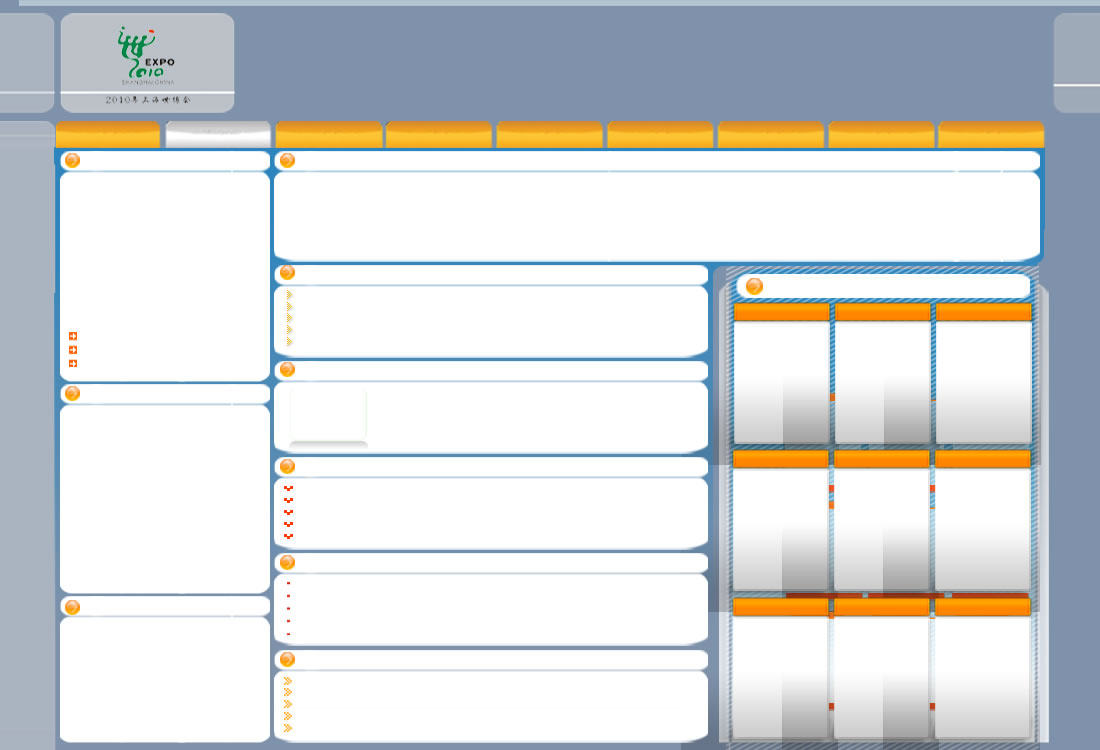
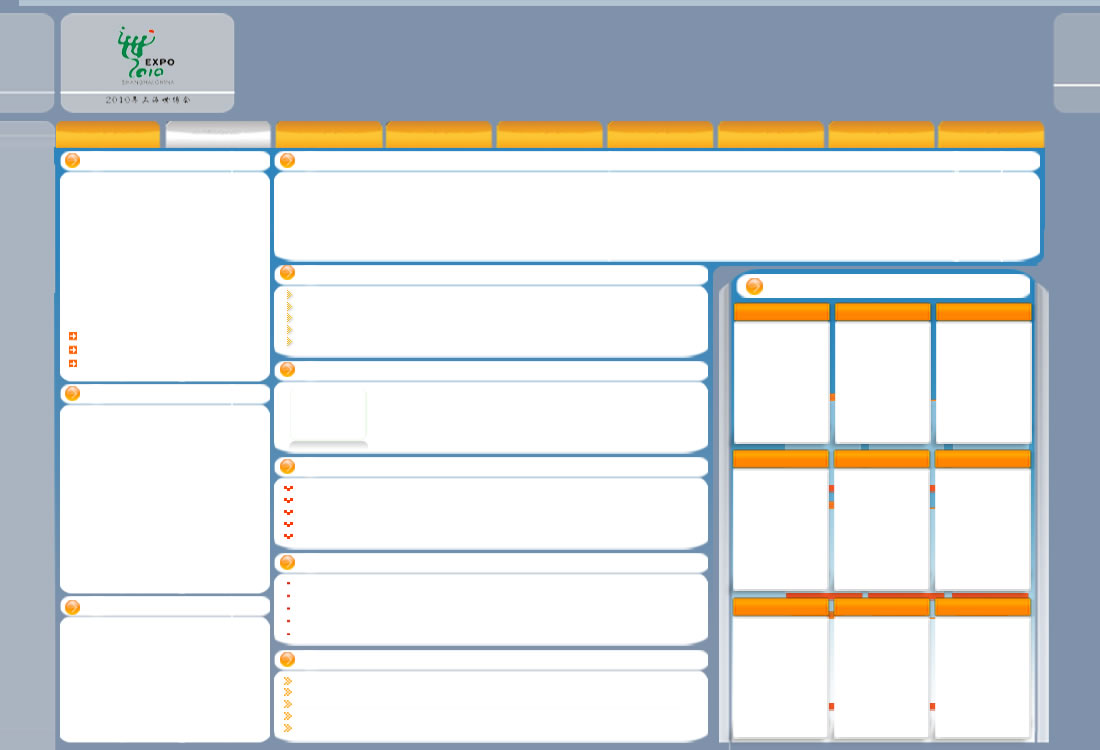
robbin

diff --git a/css/top.css b/css/top.css
@@ -9,7 +9,9 @@ li{margin:0px; list-style-type:none;}
 #nav1 #context a{color:#999999; text-decoration:none;}
 #nav1 #context span{color:#999999; cursor:pointer;}
 #nav1 #home{width:51px; height:11px; margin-top:3px; margin-right:5px; float:right; display:inline;}
-#nimg1{width:995px; height:116px; background:url('/images/shanghailoianghui.jpg') no-repeat; text-align:center; margin:0 auto;}
+/*#nimg1{width:995px; height:116px; background:url('/images/shanghailoianghui.jpg') no-repeat; text-align:center; margin:0 auto;}*/
+#nimg1{width:995px; height:100px; cursor:pointer; text-align:center; margin:0 auto;}
+#fd{width:995px; height:100px; top:25px; left:0px; cursor:pointer; z-index:99px; background:#7f7f7f; filter:alpha(opacity=0); -moz-opacity:0; opacity:0; position:absolute;}
 .deptlogo{width:100px; height:63px; margin-top:22px; cursor:pointer; float:left; display:inline;}
 .deptlogo a{width:100px; height:63px; text-decoration:none;}
 #nav2{margin-top:2px; width:100%; line-height:20px; height:110px; float:left; display:inline;}

diff --git a/css/jwzxsbh.css b/css/jwzxsbh.css
@@ -15,8 +15,7 @@ ul,li{margin:0px; padding:0px;list-style:none;}
 #ileft{width:210px; float:left; display:inline;}
 #l_top{width:210px; height:230px; margin-top:2px; margin-left:60px; float:left; display:inline;}
 #l_top #video{width:178px; height:136px; margin-top:10px; margin-left:16px; float:left; display:inline;}
-#l_top .video_list{width:178px; height:12px; margin-top:1px; margin-left:25px; overflow:hidden; float:left; display:inline;}
-#l_top .video_list a{color:#000000; text-decoration:none;}
+#l_top .video_list{width:178px; height:12px; margin-top:1px; margin-left:25px; color:#000000; overflow:hidden; float:left; display:inline;}
 #l_m{width:210px; height:210px; margin-top:2px; margin-left:60px; float:left; display:inline;}
 #l_m #content{width:176px; height:89px; margin-top:10px; margin-left:17px;  line-height:15px; float:left; display:inline;}
 #l_m #comment_name{width:176px; height:13px; margin-left:10px; line-height:13px; font-weight:bold; float:left; display:inline;}

diff --git a/subject/jwzxsbh/index.php b/subject/jwzxsbh/index.php
@@ -20,30 +20,30 @@
 	<?php $db=get_db(); ?>
 	<div id=ibody>
 		<div id=flash><embed src="4.swf" quality="high" width=801 height=100 type='application/x-shockwave-flash'></embed></div>
-		<div class=dh1 style="margin-left:55px;"><a href="/news/news_subject_list.php?id=139">重点关注</a></div>
-		<div class=dh2><a href="/news/news_subject_list.php?id=132">采风世博园</a></div>
-		<div class=dh1><a href="/news/news_subject_list.php?id=133">领导观察</a></div>
-		<div class=dh1><a href="/news/news_subject_list.php?id=134">世博之星</a></div>
-		<div class=dh1><a href="/news/news_subject_list.php?id=135">IBC要闻</a></div>
-		<div class=dh1><a href="/news/news_subject_list.php?id=136">运营动态</a></div>
-		<div class=dh1><a href="#">世博寄语</a></div>
-		<div class=dh1><a href="/news/news_subject_list.php?id=137">主题活动</a></div>
-		<div class=dh1><a href="/news/news_subject_list2.php">技术资讯站</a></div>
+		<div class=dh1 style="margin-left:55px;"><a target="_blank" href="/news/news_subject_list.php?id=139">重点关注</a></div>
+		<div class=dh2><a target="_blank" href="/news/news_subject_list.php?id=132">采风世博园</a></div>
+		<div class=dh1><a target="_blank" href="/news/news_subject_list.php?id=133">领导观察</a></div>
+		<div class=dh1><a target="_blank" href="/news/news_subject_list.php?id=134">世博之星</a></div>
+		<div class=dh1><a target="_blank" href="/news/news_subject_list.php?id=135">IBC要闻</a></div>
+		<div class=dh1><a target="_blank" href="/news/news_subject_list.php?id=136">运营动态</a></div>
+		<div class=dh1><a target="_blank" href="#">世博寄语</a></div>
+		<div class=dh1><a target="_blank" href="/news/news_subject_list.php?id=137">主题活动</a></div>
+		<div class=dh1><a target="_blank" href="/news/news_subject_list2.php">技术资讯站</a></div>
 		<div id=ileft>
 			<div id=l_top>
-				<?php $record_video = $db->query('select n.video_photo_src,n.video_src,n.short_title,n.id,c.id as cid from smg_news n inner join smg_subject_items i on i.resource_id=n.id and i.category_type="news" and n.is_adopt=1 inner join smg_subject_category c on c.id=i.category_id and c.name="采风世博园" inner join smg_subject s on c.subject_id=s.id and s.name="技术运营中心世博会专题" order by i.priority asc,n.created_at desc limit 4'); ?>
+				<?php $record_video = $db->query('select n.video_photo_src,n.video_src,n.short_title,n.id,c.id as cid from smg_news n inner join smg_subject_items i on i.resource_id=n.id and i.category_type="news" and i.is_adopt=1 inner join smg_subject_category c on c.id=i.category_id and c.name="重点关注" inner join smg_subject s on c.subject_id=s.id and s.name="技术运营中心世博会专题" order by i.priority asc,n.created_at desc limit 3'); ?>
 				<div class=title>重点关注</div>
-				<div class=more><a href="/news/news_subject_list.php?id=139"><img border=0 src="images/more.jpg"></a></div>
+				<div class=more><a target="_blank" href="/news/news_subject_list.php?id=139"><img border=0 src="images/more.jpg"></a></div>
 				<div id=video>
 					<iframe id=video_src src="index_video.php?photo=<?php echo $record_video[0]->video_photo_src; ?>&video=<?php echo $record_video[0]->video_src ?>" width=178 height=136 scrolling="no" frameborder="0"></iframe>
 				</div>
-				<div class=video_list style="margin-top:12px;"><a href=""><?php echo $record_video[1]->short_title; ?></a></div>
-				<div class=video_list><a href=""><?php echo $record_video[2]->short_title; ?></a></div>
-				<div class=video_list><a href=""><?php echo $record_video[3]->short_title; ?></a></div>
+				<div class=video_list style="margin-top:12px;"><span target="_blank" class=video param1=<?php echo $record_video[0]->video_photo_src ?> param2=<?php echo $record_video[0]->video_src ?>><?php echo $record_video[0]->short_title; ?></span></div>
+				<div class=video_list><span target="_blank" class=video param1=<?php echo $record_video[1]->video_photo_src ?> param2=<?php echo $record_video[1]->video_src ?>><?php echo $record_video[1]->short_title; ?></span></div>
+				<div class=video_list><span target="_blank" class=video param1=<?php echo $record_video[2]->video_photo_src ?> param2=<?php echo $record_video[2]->video_src ?>><?php echo $record_video[2]->short_title; ?></span></div>
 			</div>
 			<div id=l_m>
 				<div class=title>寄语世博</div>
-				<div class=more><a href="#"><img border=0 src="images/more.jpg"></a></div>
+				<div class=more><a target="_blank" href="#"><img border=0 src="images/more.jpg"></a></div>
 				<div id=content>
 					<? $newslist=$db->query('select * from smg_comment where resource_type="jwzxsbh" order by created_at desc');?>
 					<marquee height="89" DIRECTION="up" scrollamount="2" onmouseover=this.stop() onmouseout=this.start()>
@@ -62,23 +62,23 @@
 			</div>
 			<div id=l_b>
 				<div class=title>相关资料</div>
-				<div class=more><a href=""><img border=0 src="images/more.jpg"></a></div>
+				<div class=more><a target="_blank" href=""><img border=0 src="images/more.jpg"></a></div>
 				<div id=content>
-					<a href="/"><img border=0 src="images/tomato.jpg"></a><br>
-					<a href="/">番茄网</a><br>
-					<a href="http://www.expo2010.cn/"><img border=0 src="images/sbh.jpg"></a><br>
-					<a href="http://www.expo2010.cn/">上海世博会官网</a><br>
-					<a href="http://172.27.203.81:8080/blog/index.php?uid-3328"><img border=0 src="images/blog.jpg"></a><br>
-					<a href="http://172.27.203.81:8080/blog/index.php?uid-3328">EXPOTECH博客</a><br>
+					<a target="_blank" href="/"><img border=0 src="images/tomato.jpg"></a><br>
+					<a target="_blank" href="/">番茄网</a><br>
+					<a target="_blank" href="http://www.expo2010.cn/"><img border=0 src="images/sbh.jpg"></a><br>
+					<a target="_blank" href="http://www.expo2010.cn/">上海世博会官网</a><br>
+					<a target="_blank" href="http://172.27.203.81:8080/blog/index.php?uid-3328"><img border=0 src="images/blog.jpg"></a><br>
+					<a target="_blank" href="http://172.27.203.81:8080/blog/index.php?uid-3328">EXPOTECH博客</a><br>
 				</div>
 			</div>
 		</div>
 		<div id=iright>
 			<div id=r_t>
 				<div class=title>采风世博园</div>
-				<div class=more><a href="/news/news_subject_list.php?id=132"><img border=0 src="images/more.jpg"></a></div>
+				<div class=more><a target="_blank" href="/news/news_subject_list.php?id=132"><img border=0 src="images/more.jpg"></a></div>
 				<div id=gd>
-				<?php $photo = $db->query('select n.photo_src,n.id,c.id as cid from smg_news n inner join smg_subject_items i on i.resource_id=n.id and i.category_type="news" and i.is_adopt=1 inner join smg_subject_category c on c.id=i.category_id and c.name="采风世博园" inner join smg_subject s on c.subject_id=s.id and s.name="技术运营中心世博会专题" order by i.priority asc,n.created_at desc limit 10');?>
+				<?php $photo = $db->query('select n.photo_src,n.id,c.id as cid from smg_news n inner join smg_subject_items i on i.resource_id=n.id and i.category_type="news" and i.is_adopt=1 inner join smg_subject_category c on c.id=i.category_id and c.name="采风世博园" inner join smg_subject s on c.subject_id=s.id and s.name="技术运营中心世博会专题" order by i.priority asc,n.created_at desc');?>
 	        <script type="text/javascript"> 
 						function ScrollImgLeft(){
 							var speed=20
@@ -104,7 +104,7 @@
 					      <div id="scroll_begin">
 					        <ul>
 					        	<? for($i=0;$i<count($photo);$i++){?>
-					          <li><a href="/news/news/news.php?id=<? echo $photo[$i]->id;?>"><img border=0 width=65 height=58 src="<? echo $photo[$i]->photo_src;?>"  /></a></li>
+					          <li><a target="_blank" href="/news/news/news.php?id=<? echo $photo[$i]->id;?>"><img border=0 width=65 height=58 src="<? echo $photo[$i]->photo_src;?>"  /></a></li>
 					          <? }?>
 					        </ul>
 					      </div>
@@ -120,58 +120,58 @@
 				<div class=r_b_l>
 					<?php $news = $db->query('select n.photo_src,n.id,n.title,c.id as cid from smg_news n inner join smg_subject_items i on i.resource_id=n.id and i.category_type="news" and i.is_adopt=1 inner join smg_subject_category c on c.id=i.category_id and c.name="领导观察" inner join smg_subject s on c.subject_id=s.id and s.name="技术运营中心世博会专题" order by i.priority asc,n.created_at desc limit 5'); ?>
 					<div class=title>领导视察</div>
-					<div class=more><a href="/news/news_subject_list.php?id=133"><img border=0 src="images/more.jpg"></a></div>
+					<div class=more><a target="_blank" href="/news/news_subject_list.php?id=133"><img border=0 src="images/more.jpg"></a></div>
 					<div class=content1>
 						<?php for($i=0;$i<count($news);$i++){ ?>
-							<div class=cl1><a href="/news/news/news.php?id=<?php echo $news[$i]->id; ?>"><?php echo delhtml($news[$i]->title); ?></a></div>
+							<div class=cl1><a target="_blank" href="/news/news/news.php?id=<?php echo $news[$i]->id; ?>"><?php echo delhtml($news[$i]->title); ?></a></div>
 						<?php } ?>
 					</div>
 				</div>
 				<div class=r_b_l>
 					<?php $news = $db->query('select n.photo_src,n.id,n.title,c.id as cid from smg_news n inner join smg_subject_items i on i.resource_id=n.id and i.category_type="news" and i.is_adopt=1 inner join smg_subject_category c on c.id=i.category_id and c.name="世博之星" inner join smg_subject s on c.subject_id=s.id and s.name="技术运营中心世博会专题" order by i.priority asc,n.created_at desc limit 5'); ?>
 					<div class=title>世博之星</div>
-					<div class=more><a href="/news/news_subject_list.php?id=134"><img border=0 src="images/more.jpg"></a></div>
+					<div class=more><a target="_blank" href="/news/news_subject_list.php?id=134"><img border=0 src="images/more.jpg"></a></div>
 					<div class=content3>
-						<div class=pic><a href=""><img border=0 src="images/one.jpg"></a></div>
+						<div class=pic><a target="_blank" href=""><img border=0 width=71 height=47 src="<?php echo $news[0]->photo_src; ?>"></a></div>
 						<?php for($i=0;$i<count($news);$i++){ ?>
-							<div class=cl2 <?php if($i==0){?>style="margin-top:5px;"<?php } ?> ><a href="/news/news/news.php?id=<?php echo $news[$i]->id; ?>"><?php echo delhtml($news[$i]->title); ?></a></div>
+							<div class=cl2 <?php if($i==0){?>style="margin-top:5px;"<?php } ?> ><a target="_blank" href="/news/news/news.php?id=<?php echo $news[$i]->id; ?>"><?php echo delhtml($news[$i]->title); ?></a></div>
 						<?php } ?>
 					</div>
 				</div>
 				<div class=r_b_l>
 					<?php $news = $db->query('select n.photo_src,n.id,n.title,c.id as cid from smg_news n inner join smg_subject_items i on i.resource_id=n.id and i.category_type="news" and i.is_adopt=1 inner join smg_subject_category c on c.id=i.category_id and c.name="IBC要闻" inner join smg_subject s on c.subject_id=s.id and s.name="技术运营中心世博会专题" order by i.priority asc,n.created_at desc limit 5'); ?>
 					<div class=title>IBC要闻</div>
-					<div class=more><a href="/news/news_subject_list.php?id=135"><img border=0 src="images/more.jpg"></a></div>
+					<div class=more><a target="_blank" href="/news/news_subject_list.php?id=135"><img border=0 src="images/more.jpg"></a></div>
 					<div class=content2>
 						<?php for($i=0;$i<count($news);$i++){ ?>
-							<div class=cl1><a href="/news/news/news.php?id=<?php echo $news[$i]->id; ?>"><?php echo delhtml($news[$i]->title); ?></a></div>
+							<div class=cl1><a target="_blank" href="/news/news/news.php?id=<?php echo $news[$i]->id; ?>"><?php echo delhtml($news[$i]->title); ?></a></div>
 						<?php } ?>
 					</div>
 				</div>
 				<div class=r_b_l>
 					<?php $news = $db->query('select n.photo_src,n.id,n.title,c.id as cid from smg_news n inner join smg_subject_items i on i.resource_id=n.id and i.category_type="news" and i.is_adopt=1 inner join smg_subject_category c on c.id=i.category_id and c.name="运营动态" inner join smg_subject s on c.subject_id=s.id and s.name="技术运营中心世博会专题" order by i.priority asc,n.created_at desc limit 5'); ?>
 					<div class=title>运营动态</div>
-					<div class=more><a href="/news/news_subject_list.php?id=136"><img border=0 src="images/more.jpg"></a></div>
+					<div class=more><a target="_blank" href="/news/news_subject_list.php?id=136"><img border=0 src="images/more.jpg"></a></div>
 					<div class=content2>
 						<?php for($i=0;$i<count($news);$i++){ ?>
-							<div class=cl1><a href="/news/news/news.php?id=<?php echo $news[$i]->id; ?>"><?php echo delhtml($news[$i]->title); ?></a></div>
+							<div class=cl1><a target="_blank" href="/news/news/news.php?id=<?php echo $news[$i]->id; ?>"><?php echo delhtml($news[$i]->title); ?></a></div>
 						<?php } ?>
 					</div>
 				</div>
 				<div class=r_b_l>
 					<?php $news = $db->query('select n.photo_src,n.id,n.title,c.id as cid from smg_news n inner join smg_subject_items i on i.resource_id=n.id and i.category_type="news" and i.is_adopt=1 inner join smg_subject_category c on c.id=i.category_id and c.name="主题活动" inner join smg_subject s on c.subject_id=s.id and s.name="技术运营中心世博会专题" order by i.priority asc,n.created_at desc limit 5'); ?>
 					<div class=title>主题活动</div>
-					<div class=more><a href="/news/news_subject_list.php?id=137"><img border=0 src="images/more.jpg"></a></div>
+					<div class=more><a target="_blank" href="/news/news_subject_list.php?id=137"><img border=0 src="images/more.jpg"></a></div>
 					<div class=content2>
 						<?php for($i=0;$i<count($news);$i++){ ?>
-							<div class=cl1><a href="/news/news/news.php?id=<?php echo $news[$i]->id; ?>"><?php echo delhtml($news[$i]->title); ?></a></div>
+							<div class=cl1><a target="_blank" href="/news/news/news.php?id=<?php echo $news[$i]->id; ?>"><?php echo delhtml($news[$i]->title); ?></a></div>
 						<?php } ?>
 					</div>
 				</div>
 			</div>
 			<div class=r_b_r>
 				<div class=title style="margin-left:30px;">技术资讯站</div>
-				<div class=more><a href="/news/news_subject_list2.php"><img border=0 src="images/more.jpg"></a></div>
+				<div class=more><a target="_blank" href="/news/news_subject_list2.php"><img border=0 src="images/more.jpg"></a></div>
 				
 				<div class=r_b_r_c>
 					<?php $news = $db->query('select n.photo_src,n.id,n.short_title,c.id as cid from smg_news n inner join smg_subject_items i on i.resource_id=n.id and i.category_type="news" and i.is_adopt=1 inner join smg_subject_category c on c.id=i.category_id and c.name="IBC高清电视演播室" inner join smg_subject s on c.subject_id=s.id and s.name="技术运营中心世博会专题" order by i.priority asc,n.created_at desc limit 3'); ?>
@@ -179,10 +179,10 @@
 						<div class=r_b_r_title>IBC高清电视演播室</div>
 						<div class=content>
 							<div class=context>
-								<a href="/news/news/news.php?id=<?php echo $news[0]->id; ?>"><img border=0 width=81 height=56 src="<?php echo $news[0]->photo_src; ?>"></a><br>
-								<div class=cl style="margin-top:5px;"><a href="/news/news/news.php?id=<?php echo $news[0]->id; ?>">·<?php echo delhtml($news[0]->short_title); ?></a></div>
-								<div class=cl><a href="/news/news/news.php?id=<?php echo $news[1]->id; ?>">·<?php echo delhtml($news[1]->short_title); ?></a></div>
-								<div class=cl><a href="/news/news/news.php?id=<?php echo $news[2]->id; ?>">·<?php echo delhtml($news[2]->short_title); ?></a></div>
+								<a target="_blank" href="/news/news/news.php?id=<?php echo $news[0]->id; ?>"><img border=0 width=81 height=56 src="<?php echo $news[0]->photo_src; ?>"></a><br>
+								<div class=cl style="margin-top:5px;"><a target="_blank" href="/news/news/news.php?id=<?php echo $news[0]->id; ?>">·<?php echo delhtml($news[0]->short_title); ?></a></div>
+								<div class=cl><a target="_blank" href="/news/news/news.php?id=<?php echo $news[1]->id; ?>">·<?php echo delhtml($news[1]->short_title); ?></a></div>
+								<div class=cl><a target="_blank" href="/news/news/news.php?id=<?php echo $news[2]->id; ?>">·<?php echo delhtml($news[2]->short_title); ?></a></div>
 							</div>		
 						</div>
 					</div>
@@ -191,10 +191,10 @@
 						<div class=r_b_r_title>世博轴HD透明演播室</div>
 						<div class=content>
 							<div class=context>
-								<a href="/news/news/news.php?id=<?php echo $news[0]->id; ?>"><img border=0 width=81 height=56 src="<?php echo $news[0]->photo_src; ?>"></a><br>
-								<div class=cl style="margin-top:5px;"><a href="/news/news/news.php?id=<?php echo $news[0]->id; ?>">·<?php echo delhtml($news[0]->short_title); ?></a></div>
-								<div class=cl><a href="/news/news/news.php?id=<?php echo $news[1]->id; ?>">·<?php echo delhtml($news[1]->short_title); ?></a></div>
-								<div class=cl><a href="/news/news/news.php?id=<?php echo $news[2]->id; ?>">·<?php echo delhtml($news[2]->short_title); ?></a></div>
+								<a target="_blank" href="/news/news/news.php?id=<?php echo $news[0]->id; ?>"><img border=0 width=81 height=56 src="<?php echo $news[0]->photo_src; ?>"></a><br>
+								<div class=cl style="margin-top:5px;"><a target="_blank" href="/news/news/news.php?id=<?php echo $news[0]->id; ?>">·<?php echo delhtml($news[0]->short_title); ?></a></div>
+								<div class=cl><a target="_blank" href="/news/news/news.php?id=<?php echo $news[1]->id; ?>">·<?php echo delhtml($news[1]->short_title); ?></a></div>
+								<div class=cl><a target="_blank" href="/news/news/news.php?id=<?php echo $news[2]->id; ?>">·<?php echo delhtml($news[2]->short_title); ?></a></div>
 							</div>		
 						</div>
 					</div>
@@ -203,10 +203,10 @@
 						<div class=r_b_r_title>IBC网络演播室</div>
 						<div class=content>
 							<div class=context>
-								<a href="/news/news/news.php?id=<?php echo $news[0]->id; ?>"><img border=0 width=81 height=56 src="<?php echo $news[0]->photo_src; ?>"></a><br>
-								<div class=cl style="margin-top:5px;"><a href="/news/news/news.php?id=<?php echo $news[0]->id; ?>">·<?php echo delhtml($news[0]->short_title); ?></a></div>
-								<div class=cl><a href="/news/news/news.php?id=<?php echo $news[1]->id; ?>">·<?php echo delhtml($news[1]->short_title); ?></a></div>
-								<div class=cl><a href="/news/news/news.php?id=<?php echo $news[2]->id; ?>">·<?php echo delhtml($news[2]->short_title); ?></a></div>
+								<a target="_blank" href="/news/news/news.php?id=<?php echo $news[0]->id; ?>"><img border=0 width=81 height=56 src="<?php echo $news[0]->photo_src; ?>"></a><br>
+								<div class=cl style="margin-top:5px;"><a target="_blank" href="/news/news/news.php?id=<?php echo $news[0]->id; ?>">·<?php echo delhtml($news[0]->short_title); ?></a></div>
+								<div class=cl><a target="_blank" href="/news/news/news.php?id=<?php echo $news[1]->id; ?>">·<?php echo delhtml($news[1]->short_title); ?></a></div>
+								<div class=cl><a target="_blank" href="/news/news/news.php?id=<?php echo $news[2]->id; ?>">·<?php echo delhtml($news[2]->short_title); ?></a></div>
 							</div>		
 						</div>
 					</div>
@@ -218,10 +218,10 @@
 						<div class=r_b_r_title>广播直播室</div>
 						<div class=content>
 							<div class=context>
-								<a href="/news/news/news.php?id=<?php echo $news[0]->id; ?>"><img border=0 width=81 height=56 src="<?php echo $news[0]->photo_src; ?>"></a><br>
-								<div class=cl style="margin-top:5px;"><a href="/news/news/news.php?id=<?php echo $news[0]->id; ?>">·<?php echo delhtml($news[0]->short_title); ?></a></div>
-								<div class=cl><a href="/news/news/news.php?id=<?php echo $news[1]->id; ?>">·<?php echo delhtml($news[1]->short_title); ?></a></div>
-								<div class=cl><a href="/news/news/news.php?id=<?php echo $news[2]->id; ?>">·<?php echo delhtml($news[2]->short_title); ?></a></div>
+								<a target="_blank" href="/news/news/news.php?id=<?php echo $news[0]->id; ?>"><img border=0 width=81 height=56 src="<?php echo $news[0]->photo_src; ?>"></a><br>
+								<div class=cl style="margin-top:5px;"><a target="_blank" href="/news/news/news.php?id=<?php echo $news[0]->id; ?>">·<?php echo delhtml($news[0]->short_title); ?></a></div>
+								<div class=cl><a target="_blank" href="/news/news/news.php?id=<?php echo $news[1]->id; ?>">·<?php echo delhtml($news[1]->short_title); ?></a></div>
+								<div class=cl><a target="_blank" href="/news/news/news.php?id=<?php echo $news[2]->id; ?>">·<?php echo delhtml($news[2]->short_title); ?></a></div>
 							</div>		
 						</div>
 					</div>
@@ -230,10 +230,10 @@
 						<div class=r_b_r_title>广播透明转播车</div>
 						<div class=content>
 							<div class=context>
-								<a href="/news/news/news.php?id=<?php echo $news[0]->id; ?>"><img border=0 width=81 height=56 src="<?php echo $news[0]->photo_src; ?>"></a><br>
-								<div class=cl style="margin-top:5px;"><a href="/news/news/news.php?id=<?php echo $news[0]->id; ?>">·<?php echo delhtml($news[0]->short_title); ?></a></div>
-								<div class=cl><a href="/news/news/news.php?id=<?php echo $news[1]->id; ?>">·<?php echo delhtml($news[1]->short_title); ?></a></div>
-								<div class=cl><a href="/news/news/news.php?id=<?php echo $news[2]->id; ?>">·<?php echo delhtml($news[2]->short_title); ?></a></div>
+								<a target="_blank" href="/news/news/news.php?id=<?php echo $news[0]->id; ?>"><img border=0 width=81 height=56 src="<?php echo $news[0]->photo_src; ?>"></a><br>
+								<div class=cl style="margin-top:5px;"><a target="_blank" href="/news/news/news.php?id=<?php echo $news[0]->id; ?>">·<?php echo delhtml($news[0]->short_title); ?></a></div>
+								<div class=cl><a target="_blank" href="/news/news/news.php?id=<?php echo $news[1]->id; ?>">·<?php echo delhtml($news[1]->short_title); ?></a></div>
+								<div class=cl><a target="_blank" href="/news/news/news.php?id=<?php echo $news[2]->id; ?>">·<?php echo delhtml($news[2]->short_title); ?></a></div>
 							</div>		
 						</div>
 					</div>
@@ -242,10 +242,10 @@
 						<div class=r_b_r_title>SMG专用工作区</div>
 						<div class=content>
 							<div class=context>
-								<a href="/news/news/news.php?id=<?php echo $news[0]->id; ?>"><img border=0 width=81 height=56 src="<?php echo $news[0]->photo_src; ?>"></a><br>
-								<div class=cl style="margin-top:5px;"><a href="/news/news/news.php?id=<?php echo $news[0]->id; ?>">·<?php echo delhtml($news[0]->short_title); ?></a></div>
-								<div class=cl><a href="/news/news/news.php?id=<?php echo $news[1]->id; ?>">·<?php echo delhtml($news[1]->short_title); ?></a></div>
-								<div class=cl><a href="/news/news/news.php?id=<?php echo $news[2]->id; ?>">·<?php echo delhtml($news[2]->short_title); ?></a></div>
+								<a target="_blank" href="/news/news/news.php?id=<?php echo $news[0]->id; ?>"><img border=0 width=81 height=56 src="<?php echo $news[0]->photo_src; ?>"></a><br>
+								<div class=cl style="margin-top:5px;"><a target="_blank" href="/news/news/news.php?id=<?php echo $news[0]->id; ?>">·<?php echo delhtml($news[0]->short_title); ?></a></div>
+								<div class=cl><a target="_blank" href="/news/news/news.php?id=<?php echo $news[1]->id; ?>">·<?php echo delhtml($news[1]->short_title); ?></a></div>
+								<div class=cl><a target="_blank" href="/news/news/news.php?id=<?php echo $news[2]->id; ?>">·<?php echo delhtml($news[2]->short_title); ?></a></div>
 							</div>		
 						</div>
 					</div>
@@ -257,10 +257,10 @@
 						<div class=r_b_r_title>ENG新闻采访系统</div>
 						<div class=content>
 							<div class=context>
-								<a href="/news/news/news.php?id=<?php echo $news[0]->id; ?>"><img border=0 width=81 height=56 src="<?php echo $news[0]->photo_src; ?>"></a><br>
-								<div class=cl style="margin-top:5px;"><a href="/news/news/news.php?id=<?php echo $news[0]->id; ?>">·<?php echo delhtml($news[0]->short_title); ?></a></div>
-								<div class=cl><a href="/news/news/news.php?id=<?php echo $news[1]->id; ?>">·<?php echo delhtml($news[1]->short_title); ?></a></div>
-								<div class=cl><a href="/news/news/news.php?id=<?php echo $news[2]->id; ?>">·<?php echo delhtml($news[2]->short_title); ?></a></div>
+								<a target="_blank" href="/news/news/news.php?id=<?php echo $news[0]->id; ?>"><img border=0 width=81 height=56 src="<?php echo $news[0]->photo_src; ?>"></a><br>
+								<div class=cl style="margin-top:5px;"><a target="_blank" href="/news/news/news.php?id=<?php echo $news[0]->id; ?>">·<?php echo delhtml($news[0]->short_title); ?></a></div>
+								<div class=cl><a target="_blank" href="/news/news/news.php?id=<?php echo $news[1]->id; ?>">·<?php echo delhtml($news[1]->short_title); ?></a></div>
+								<div class=cl><a target="_blank" href="/news/news/news.php?id=<?php echo $news[2]->id; ?>">·<?php echo delhtml($news[2]->short_title); ?></a></div>
 							</div>		
 						</div>
 					</div>
@@ -269,10 +269,10 @@
 						<div class=r_b_r_title>后期编辑制作系统</div>
 						<div class=content>
 							<div class=context>
-								<a href="/news/news/news.php?id=<?php echo $news[0]->id; ?>"><img border=0 width=81 height=56 src="<?php echo $news[0]->photo_src; ?>"></a><br>
-								<div class=cl style="margin-top:5px;"><a href="/news/news/news.php?id=<?php echo $news[0]->id; ?>">·<?php echo delhtml($news[0]->short_title); ?></a></div>
-								<div class=cl><a href="/news/news/news.php?id=<?php echo $news[1]->id; ?>">·<?php echo delhtml($news[1]->short_title); ?></a></div>
-								<div class=cl><a href="/news/news/news.php?id=<?php echo $news[2]->id; ?>">·<?php echo delhtml($news[2]->short_title); ?></a></div>
+								<a target="_blank" href="/news/news/news.php?id=<?php echo $news[0]->id; ?>"><img border=0 width=81 height=56 src="<?php echo $news[0]->photo_src; ?>"></a><br>
+								<div class=cl style="margin-top:5px;"><a target="_blank" href="/news/news/news.php?id=<?php echo $news[0]->id; ?>">·<?php echo delhtml($news[0]->short_title); ?></a></div>
+								<div class=cl><a target="_blank" href="/news/news/news.php?id=<?php echo $news[1]->id; ?>">·<?php echo delhtml($news[1]->short_title); ?></a></div>
+								<div class=cl><a target="_blank" href="/news/news/news.php?id=<?php echo $news[2]->id; ?>">·<?php echo delhtml($news[2]->short_title); ?></a></div>
 							</div>		
 						</div>
 					</div>
@@ -281,10 +281,10 @@
 						<div class=r_b_r_title>高清转播系统</div>
 						<div class=content>
 							<div class=context>
-								<a href="/news/news/news.php?id=<?php echo $news[0]->id; ?>"><img border=0 width=81 height=56 src="<?php echo $news[0]->photo_src; ?>"></a><br>
-								<div class=cl style="margin-top:5px;"><a href="/news/news/news.php?id=<?php echo $news[0]->id; ?>">·<?php echo delhtml($news[0]->short_title); ?></a></div>
-								<div class=cl><a href="/news/news/news.php?id=<?php echo $news[1]->id; ?>">·<?php echo delhtml($news[1]->short_title); ?></a></div>
-								<div class=cl><a href="/news/news/news.php?id=<?php echo $news[2]->id; ?>">·<?php echo delhtml($news[2]->short_title); ?></a></div>
+								<a target="_blank" href="/news/news/news.php?id=<?php echo $news[0]->id; ?>"><img border=0 width=81 height=56 src="<?php echo $news[0]->photo_src; ?>"></a><br>
+								<div class=cl style="margin-top:5px;"><a target="_blank" href="/news/news/news.php?id=<?php echo $news[0]->id; ?>">·<?php echo delhtml($news[0]->short_title); ?></a></div>
+								<div class=cl><a target="_blank" href="/news/news/news.php?id=<?php echo $news[1]->id; ?>">·<?php echo delhtml($news[1]->short_title); ?></a></div>
+								<div class=cl><a target="_blank" href="/news/news/news.php?id=<?php echo $news[2]->id; ?>">·<?php echo delhtml($news[2]->short_title); ?></a></div>
 							</div>		
 						</div>
 					</div>
@@ -295,3 +295,33 @@
 	</div>
 </body>
 </html>
+<script>
+$(function(){
+	$(".video").click(function()
+	{
+		total("视频新闻","news");	
+		$(".video").css('background','url(/images/icon/arrow1.gif) no-repeat 0 3px');
+		$(".video").css('color','#000000');
+		$(".video").css('font-weight','normal');		
+		$(this).css('background','url(/images/icon/arrow2.gif) no-repeat 0 3px');
+		$(this).css('color','#2C345B');		
+		$(this).css('font-weight','bold');	
+		video_src($(this).attr('param1'),$(this).attr('param2'));
+
+	})
+	
+	$('#item1').click(function(){
+		window.location.href="http://172.27.203.81:8080/show/list.php?id=24&type=news"
+	});
+	
+	
+});
+
+
+
+
+function video_src(photo,video)
+{
+	$("#video_src").attr('src','index_video.php?photo='+photo+'&video='+video);
+}	
+</script>

diff --git a/inc/top.inc.php b/inc/top.inc.php
@@ -30,11 +30,14 @@
 		<a target="_blank" style="margin-right:5px; color:#0B0B8D; font-weight:bold; line-height:24px; text-decoration:none; float:right; display:inline;" href="http://172.27.203.81:8080/news/news/news.php?id=43221">SMG电子邮件帐号清理通知</a>
 	</div>
 </div>
+<div id=fd></div>
 <div id=nimg1>
 	<?php $days=daysInSpan(mktime(0,0,0,date('m'),date('d'),date('Y')),mktime(0,0,0,11,01,2009));?>
 	<!--<a target="_blank" href="/news/news/news_head.php?id=32903"><img border=0 src="/images/dfws.jpg"></a>-->
-	<div class=deptlogo name="1" style="margin-left:450px;"></div><div class=deptlogo name="2" style="margin-left:9px;"></div><div class=deptlogo name="3" style="margin-left:10px;"></div><div class=deptlogo name="4" style="margin-left:9px;"></div><div class=deptlogo name="5" style="margin-left:9px;"></div>
+	<!--<div class=deptlogo name="1" style="margin-left:450px;"></div><div class=deptlogo name="2" style="margin-left:9px;"></div><div class=deptlogo name="3" style="margin-left:10px;"></div><div class=deptlogo name="4" style="margin-left:9px;"></div><div class=deptlogo name="5" style="margin-left:9px;"></div>-->
+	<embed wmode="transparent" src="/images/1.swf" quality="high" width=995 height=100 type='application/x-shockwave-flash'></embed>
 </div>
+
 <div id=nav2>
 	
 	<div id=box>
@@ -181,6 +184,9 @@
 			{
 				location.href="http://172.27.203.81:8080/blog/?uid-3327";
 			}
+		});
+		$("#fd").click(function(){
+			location.href="http://172.27.203.81:8080/subject/jwzxsbh/";
 		});
 	});
 </script>

diff --git a/news/news_subject_list2.php b/news/news_subject_list2.php
@@ -12,7 +12,7 @@
 		use_jquery();
 		js_include_once_tag('news_list','total');
 		$db = get_db();
-		$sql="select n.title,n.platform,n.id,n.created_at,n.category_id,c.category_id as cid from smg_news n inner join smg_subject_items c on n.category_id=c.resource_id where c.is_adopt=1 and c.category_id in (140,141,142,143,144,145,146,147,148) order by n.priority asc,n.created_at desc";
+		$sql="select n.title,n.platform,n.id,n.created_at,n.category_id,c.category_id as cid from smg_news n inner join smg_subject_items c on n.id=c.resource_id where c.is_adopt=1 and c.category_id in (140,141,142,143,144,145,146,147,148) order by n.priority asc,n.created_at desc";
 		$record=$db->paginate($sql,30);		
   ?>
 <script>

diff --git a/news/news_subject_list.php b/news/news_subject_list.php
@@ -13,7 +13,7 @@
 		use_jquery();
 		js_include_once_tag('news_list','total');
 		$db = get_db();
-		$sql="select n.title,n.platform,n.id,n.created_at,n.category_id,c.category_id as cid from smg_news n inner join smg_subject_items c on n.category_id=c.resource_id where c.is_adopt=1 and c.category_id=".$id." order by n.priority asc,n.created_at desc";
+		$sql="select n.title,n.platform,n.id,n.created_at,n.category_id,c.category_id as cid from smg_news n inner join smg_subject_items c on n.id=c.resource_id where c.is_adopt=1 and c.category_id=".$id." order by n.priority asc,n.created_at desc";
 		$record=$db->paginate($sql,30);		
   ?>
 <script>
